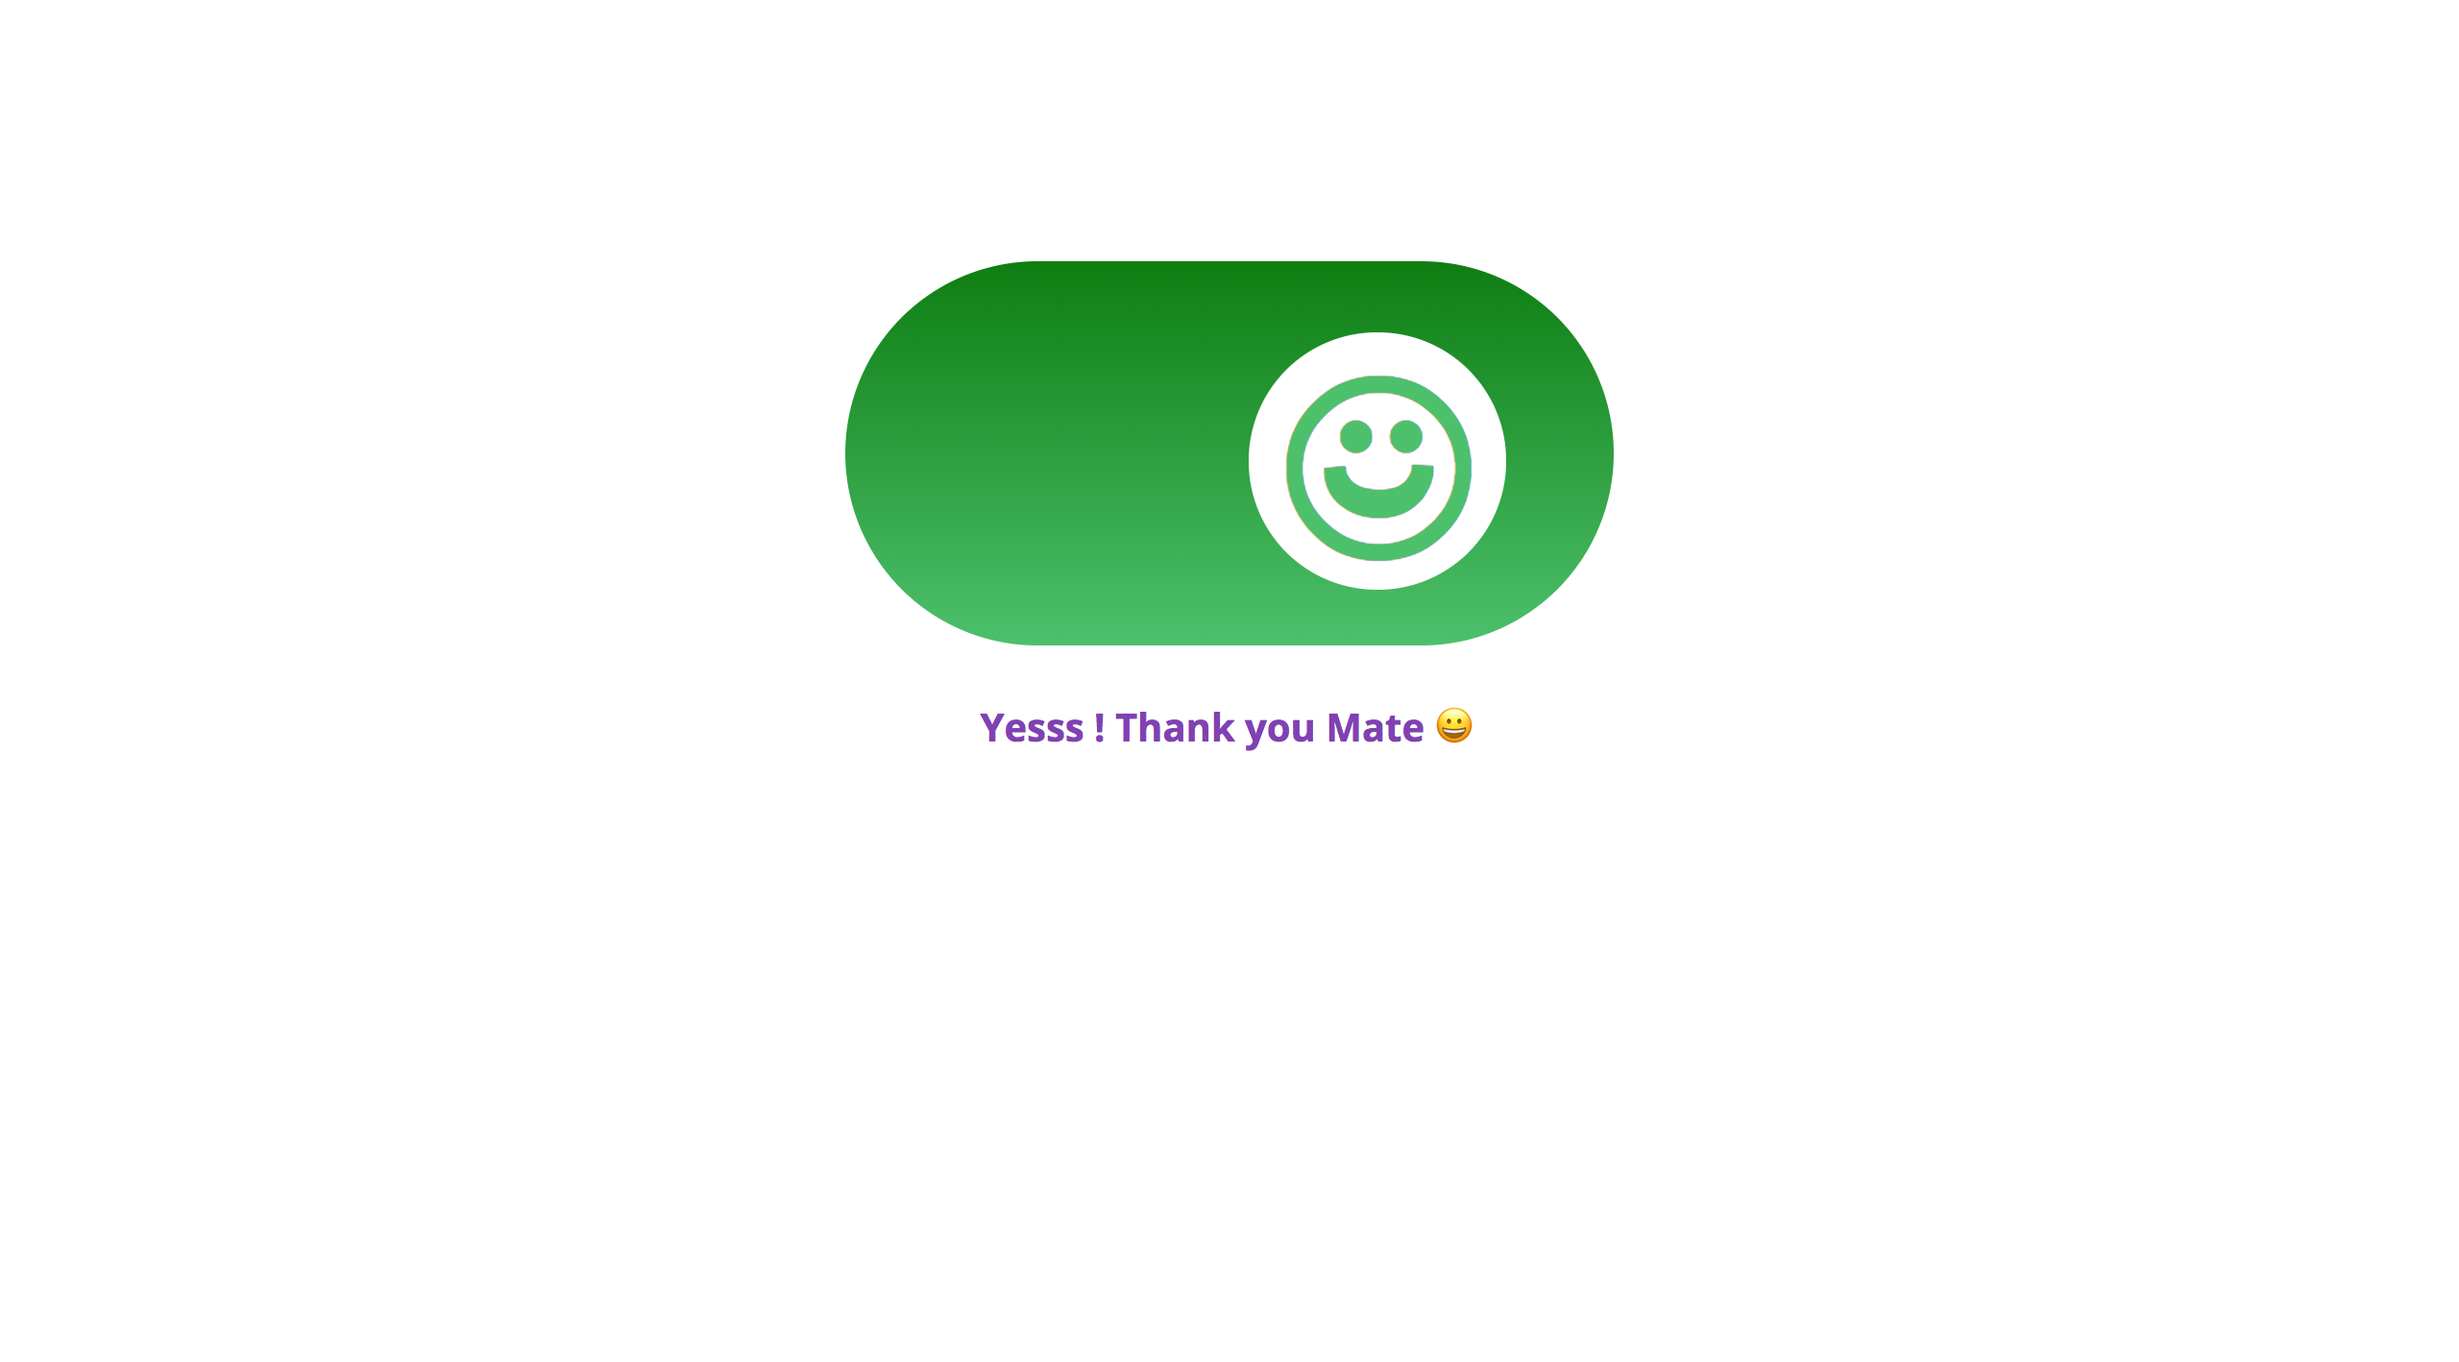
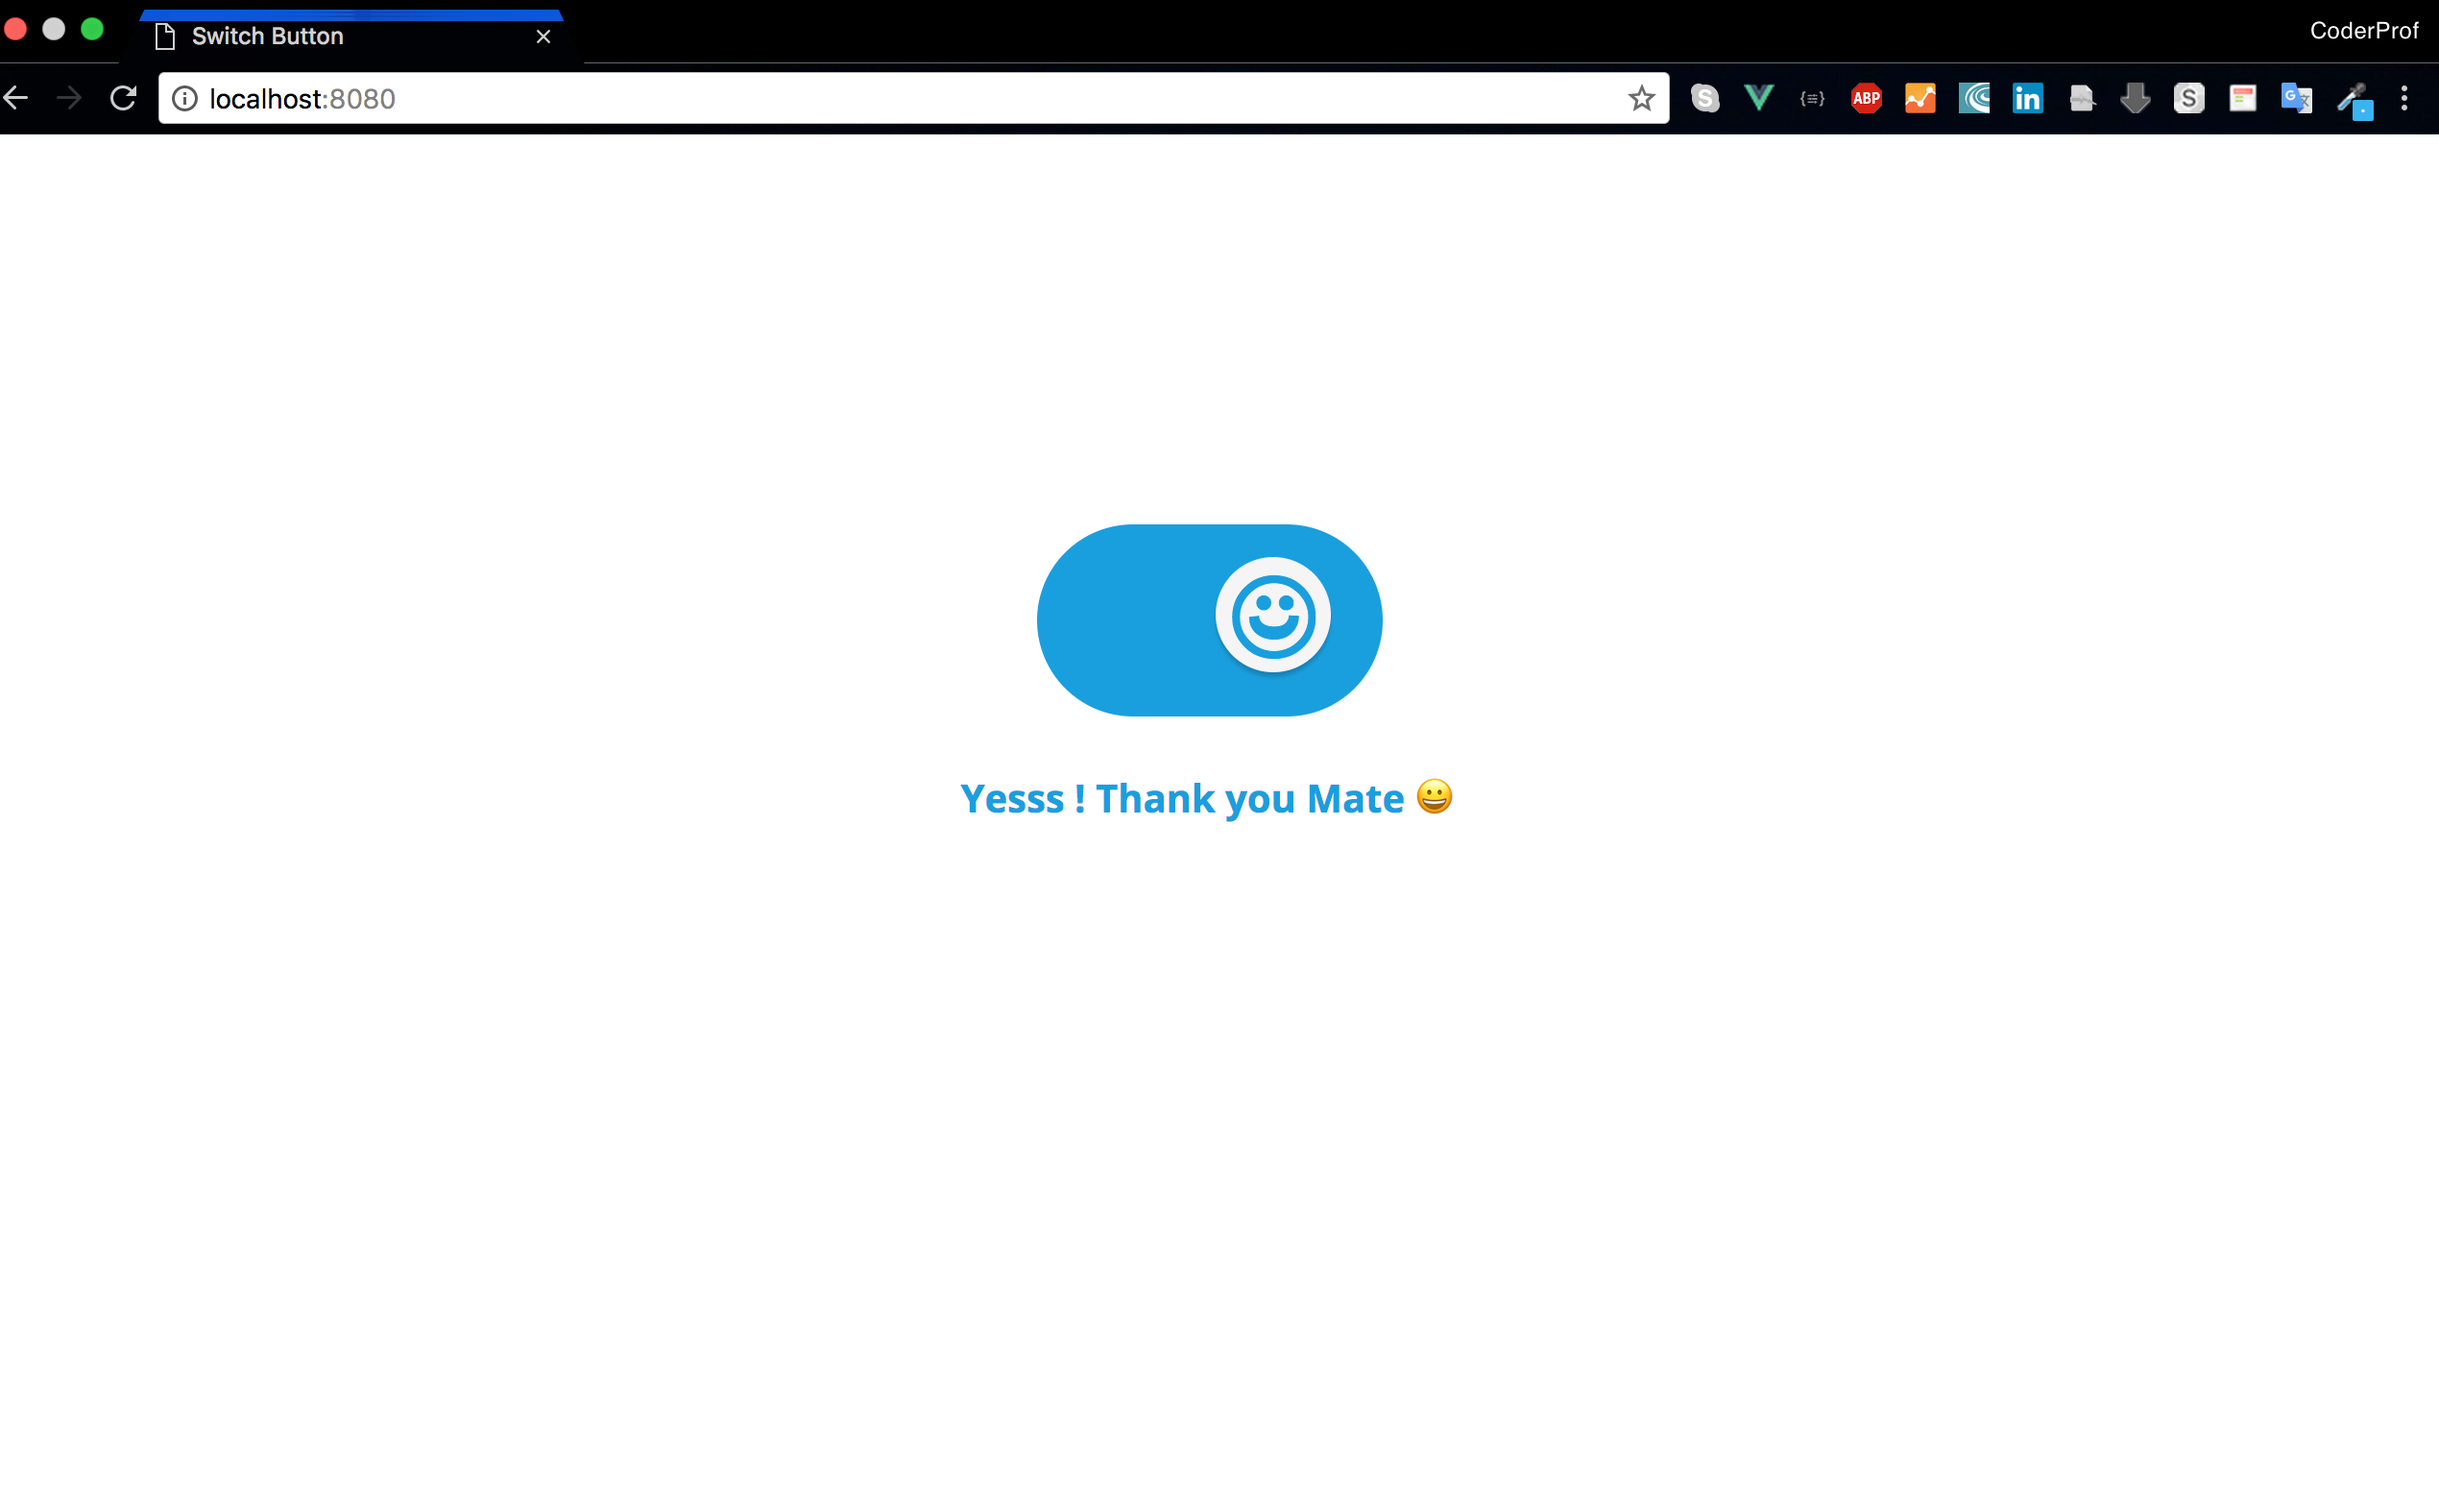
edit css

Changed region(s): [[0.3421, 0.1862, 0.6531, 0.5585], [0.0, 0.0, 1.0, 0.0931]]

diff --git a/src/pages/Home/index.vue b/src/pages/Home/index.vue
@@ -6,8 +6,8 @@ export default {
   data() {
     return {
       sunshine: false,
-      bgColor: 'linear-gradient(red, #f06d06)',
-      activeColor: 'linear-gradient(green, #48C169)'
+      bgColor: '#b5b5b5',
+      activeColor: '#009ee0'
     };
   },
   components: {
@@ -27,15 +27,17 @@ export default {
                    :bg-color="bgColor"
                    :active-bg-color="activeColor" 
                    toggle-content="&#x2639;"
+                   toggle-color="#f5f5f5"
+                   toggle-active-color="#f5f5f5"
                    toggle-active-content="&#9786;"
-                   toggle-font-color="#f06d06"
-                   toggle-active-font-color="#48C169"
+                   :toggle-font-color="bgColor"
+                   :toggle-active-font-color="activeColor"
                    toggle-font-weight="bold"
                    @input="onChangeValue()"
                    width="180px"
                    height="100px"/>
     <div class="text">
-     <span v-if="sunshine">Yesss ! Thank you Mate &#128512; </span>
+     <span class="active" v-if="sunshine">Yesss ! Thank you Mate &#128512; </span>
      <span v-else>I Am Sorry , Mere Pyaare Jaane Do ...	&#x1F614;</span>
     </div>
   </section>
@@ -55,8 +57,11 @@ export default {
       margin-top: 20px;
       span {
         font-size: 20px;
-        color: #833ab7;
+        color: #b5b5b5;
         font-weight: bold;
+        &.active {
+          color: #009ee0;
+        }
       }
     }
   }

diff --git a/index.html b/index.html
@@ -3,7 +3,7 @@
   <head>
     <meta charset="utf-8">
     <meta name="viewport" content="width=device-width,initial-scale=1.0">
-    <title>switch-button</title>
+    <title>Switch Button</title>
   </head>
   <body>
     <div id="app"></div>

diff --git a/src/components/SwitchButton/index.vue b/src/components/SwitchButton/index.vue
@@ -145,6 +145,7 @@ export default {
     display: flex;
     align-items: center;
     justify-content: center;
+    box-shadow: 0 3px 1px 0 rgba(0,0,0,.05), 0 2px 2px 0 rgba(0,0,0,.1), 0 3px 3px 0 rgba(0,0,0,.05)
   }
 }
 </style>
